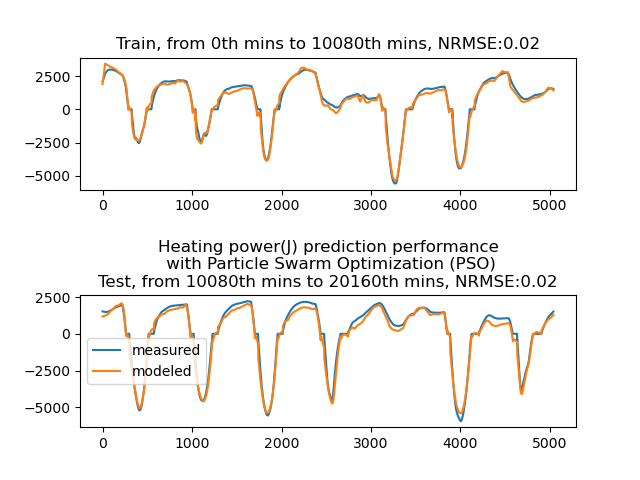
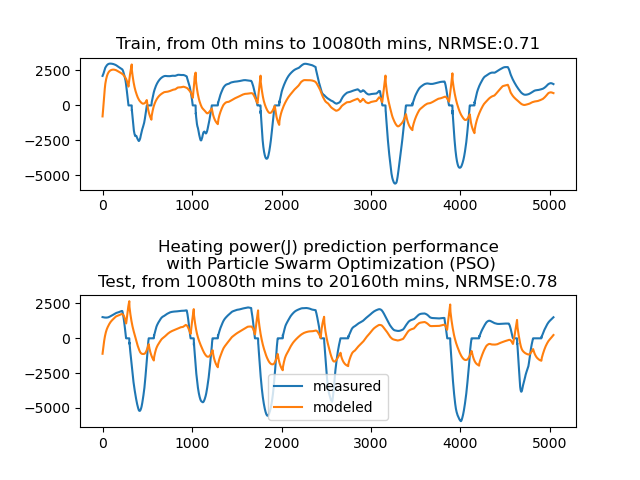
update GGMR pyswarm

diff --git a/_3_radiant_py3/_2_utils.py b/_3_radiant_py3/_2_utils.py
@@ -7,6 +7,7 @@ import _1_config
 
 def load_u_y(train=True):
     # excluding the first row, column
+
     case_csv = pd.read_csv('./RS_baseline_1_15_3_7.csv', index_col=0, parse_dates=True)
     ambient_csv = pd.read_csv('./ambient-weather-20220115-20220307_2.csv', index_col=0, parse_dates=True)
     if not train:
@@ -15,6 +16,9 @@ def load_u_y(train=True):
     else:
         case_arr = case_csv.to_numpy()[_1_config.start:_1_config.end]
         ambient_arr = ambient_csv.to_numpy()[_1_config.start:_1_config.end]
+    case_arr = np.concatenate((case_arr, ambient_arr), axis = 1)
+    # radiation should be column 45 + 17 = 62
+
     # np.concatenate((a, b))
     u_arr_init = np.zeros((case_arr.shape[0], _1_config.input_num))
     y_arr_init = np.zeros((case_arr.shape[0],))
@@ -27,10 +31,12 @@ def assign_input_output(u_arr, y_arr, case_arr, ts):
     # uT = [T_{out}, \dot{Q}_{sol, cav}, \dot{Q}_{sol, room}, \dot{Q}_{int, room}, \dot{Q}_{sol, sur}, \dot{Q}_{int, sur}, \frac{dT_{so}}{dt}]\\
 
     u_arr[:, 0] = (case_arr[:, 0] - 32) * 5 / 9
-    u_arr[:, 1] = np.zeros_like(u_arr[:, 0])
-    u_arr[:, 2] = np.zeros_like(u_arr[:, 0])
+
+    radiation = case_arr[:, 62]
+    u_arr[:, 1] = radiation * 0.04
+    u_arr[:, 2] = radiation * 3.7e-19 * 0.5
     u_arr[:, 3] = np.zeros_like(u_arr[:, 0])
-    u_arr[:, 4] = np.zeros_like(u_arr[:, 0])
+    u_arr[:, 4] = radiation * 3.7e-19 * 0.5
     u_arr[:, 5] = np.zeros_like(u_arr[:, 0])
 
     u_arr[:, 6] = ((case_arr[:, 41] + case_arr[:, 40]) / 2 - 32) * 5 / 9
@@ -52,18 +58,18 @@ def assign_input_output(u_arr, y_arr, case_arr, ts):
 
 
 def assgin_ABCD(A, B, C, D, p):
-    # 0. r out cav, 0.036 K/W
-    # 1. r cav room 0.0036 K/W
-    # 2. r out room 0.036 K/W wood door
-    # 3. r room sur 10 K/W, indoor heat transfer coefficient 10 - 500 W/(m2 K)
-    # 4. r sur so 40 K/W 4 inch concrete, 100 m2 * 0.4 m2xK/W
-    # 5. r si so 300 common thermal insulation r value = 3 m2xK/W
-    # 6. c cav 75300 J/K
-    # 7  c room 376500 J/K
-    # 8  c sur, concrete 0.88 J/g/K, 2.4e6 g /m3 0.1 * 10 * 10 m3 = 2e7
+    # 0. r out cav, 0.036 K/W, corrected by Jaewan 1 / 51.92 = 0.019
+    # 1. r cav room 0.0036 K/W, corrected by Jaewan 1 / 29.07 = 0.034
+    # 2. r out room 0.036 K/W wood door, corrected by Jaewan 0.046
+    # 3. r room sur 10 K/W, indoor heat transfer coefficient 10 - 500 W/(m2 K), corrected by Jaewan 1 / 527.58 = 1.89E-3
+    # 4. r sur so 40 K/W 4 inch concrete, 100 m2 * 0.4 m2xK/W,  corrected by Jaewan 1 / 1402.44 = 7E-4
+    # 5. r si so 300 common thermal insulation r value = 3 m2xK/W, corrected by Jaewan 1 / 249.39 = 4e-3
+    # 6. c cav 75300 J/K, corrected by Jaewan 1 / 1.13e-6 = 884955
+    # 7  c room 376500 J/K, corrected by Jaewan 1 / 2.43e-7 = 4115226
+    # 8  c sur, concrete 0.88 J/g/K, 2.4e6 g /m3 0.1 * 10 * 10 m3 = 2e7, corrected by Jaewan 1 / 3.53e-8 = 2.8E7
     # (c = 4.186 J / g / c, rho = 997e3 g / m3, 1 gal / min = 6.309e-5 m3 / s,
-    # 9  c so, 4.18 J / g / c  * water 10 gal/min *  6.309e-5 m3 / s * 997e3 g / m3 = 2629 J/K
-    # 10 c si, 2100 J/(kg K) * 160 kg /m3 * 0.1 * 10 * 10 m3 = 3360000
+    # 9  c so, 4.18 J / g / c  * water 10 gal/min *  6.309e-5 m3 / s * 997e3 g / m3 = 2629 J/K, corrected by Jaewan, 1 / 3.61e-7 = 2.7E6
+    # 10 c si, 2100 J/(kg K) * 160 kg /m3 * 0.1 * 10 * 10 m3 = 3360000, corrected by Jaewan 1 / 4.14e-17 = 2.415E16
     A[0, 0] = -(1 / (p[0] * p[6])) - (1 / (p[1] * p[6]))
     A[0, 1] = (1 / (p[1] * p[6]))
 

diff --git a/_3_radiant_py3/_3_pyswarm.py b/_3_radiant_py3/_3_pyswarm.py
@@ -48,7 +48,8 @@ def obj_func(params, train=True):
     a, b, c, d = paras_to_ABCD_swarm(params)
     y_model = np.zeros_like(y_arr)
     # x_discrete = 25 * np.ones((7, u_arr.shape[1]))
-    x_discrete = 25 * np.ones((_1_config.state_num, 1))
+    # x_discrete = -2 * np.ones((_1_config.state_num, 1))
+    x_discrete = np.array([[11], [22], [22], [25], [25]])
     state_num = _1_config.state_num
     for i in range(u_arr.shape[1]):
         y_model[i,] = c @ x_discrete + d @ u_arr[:, i]

diff --git a/_3_radiant_py3/_4_rc_py_main.py b/_3_radiant_py3/_4_rc_py_main.py
@@ -1,4 +1,4 @@
-import sys, lmfit, _1_config, _2_utils, _3_pyswarm
+import sys, _1_config, _2_utils, _3_pyswarm
 # Import PySwarms
 import pyswarms as ps
 
@@ -9,8 +9,8 @@ if __name__ == "__main__":
     input_num = 7
     ts_sampling = 300
     _1_config.init(state_num, input_num, ts_sampling)
-    _1_config.start = 0
-    _1_config.end = 576
+    _1_config.start = 840 * 0
+    _1_config.end = 840 * 1
 
     if (sys.argv[1] == 'swarm'):
         _1_config.n_particles = int(sys.argv[2])

diff --git a/_1_py_swarm_rc/_3_pyswarm.py b/_1_py_swarm_rc/_3_pyswarm.py
@@ -59,7 +59,7 @@ def obj_func(params, train=True):
 
 def particle_loss(params):
     y_measure, y_model = obj_func(params)
-    return sum(abs(y_model - _1_config.y_arr))
+    return sum((y_model - _1_config.y_arr)**2)
 
 
 def whole_swarm_loss(x):

diff --git a/_1_py_swarm_rc/_4_rc_py_main.py b/_1_py_swarm_rc/_4_rc_py_main.py
@@ -1,4 +1,4 @@
-import sys, lmfit, _1_config, _2_utils, _3_pyswarm
+import sys, _1_config, _2_utils, _3_pyswarm
 # Import PySwarms
 import pyswarms as ps
 
